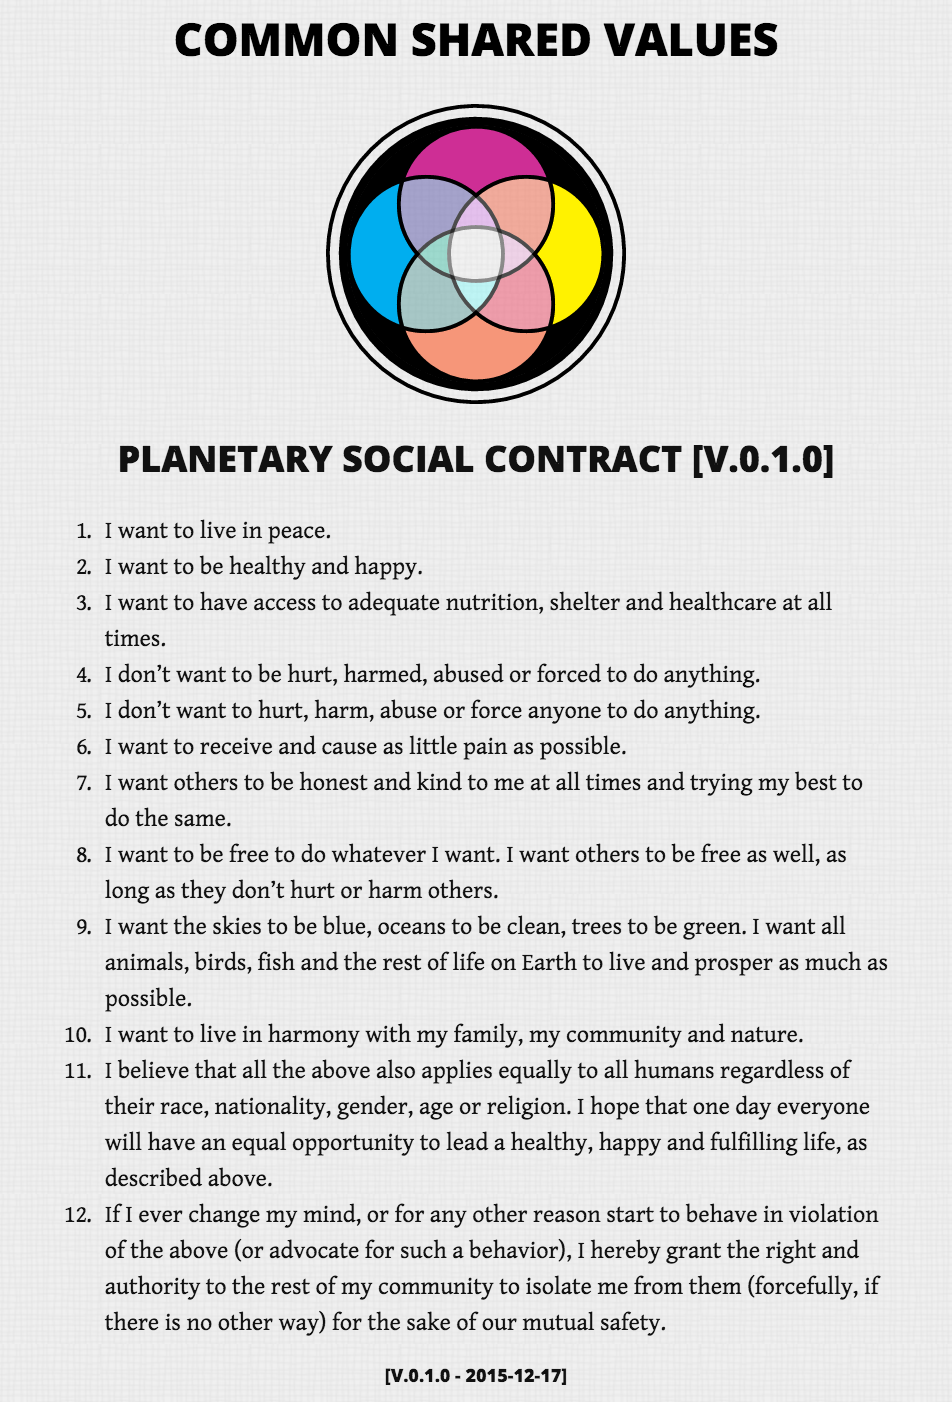
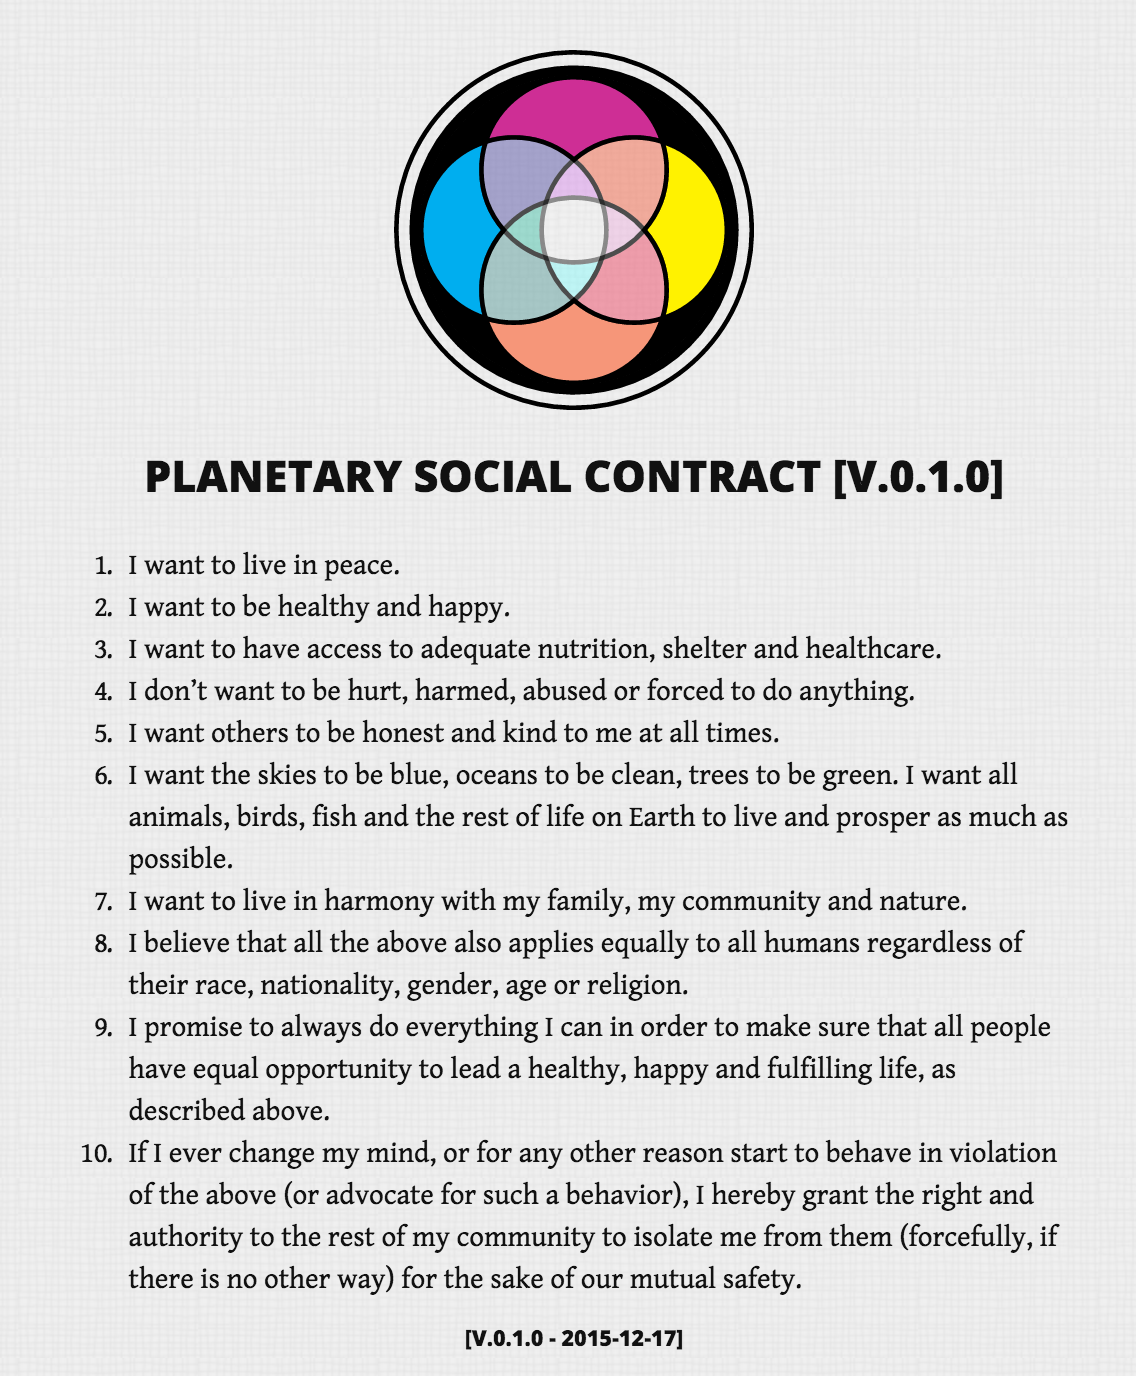
initial comments implemented

Changed region(s): [[0.0609, 0.0, 0.9443, 1.0]]

diff --git a/_site/index.html b/_site/index.html
@@ -13,7 +13,9 @@
   <meta property="og:url"           content="http://commonsharedvalues.org" />
   <meta property="og:type"          content="website" />
   <meta property="og:title"         content="Common Shared Values" />
-  <meta property="og:description"   content="Planetary Social Contract" />
+  <meta property="og:description"   content="Planetary Social Contract. I want to live in peace. I want to be healthy and happy. I want to have access to adequate nutrition, shelter and healthcare. I don’t want to be hurt, harmed, abused or forced to do anything. I want others to be honest and kind to me at all times. I want the skies to be blue, oceans to be clean, trees to be green. I want all animals, birds, fish and the rest of life on Earth to live and prosper as much as possible. I
+  want to live in harmony with my family, my community and nature. I believe that all the above also applies equally to all humans regardless of their race, nationality, gender, age or religion. I promise to always do everything I can in order to make sure that all people have equal opportunity to lead a healthy, happy and fulfilling life, as described above. If I ever change my mind, or for any other reason start to behave in violation of the above (or advocate for such a
+  behavior), I hereby grant the right and authority to the rest of my community to isolate me from them (forcefully, if there is no other way) for the sake of our mutual safety." />
   <meta property="og:image"         content="http://commonsharedvalues.org/assets/commonsharedvalues.png" />
 
   <!-- Bootstrap -->
@@ -62,15 +64,13 @@
   <ol>
   <li>I want to live in peace.</li>
   <li>I want to be healthy and happy.</li>
-  <li>I want to have access to adequate nutrition, shelter and healthcare at all times.</li>
+  <li>I want to have access to adequate nutrition, shelter and healthcare.</li>
   <li>I don’t want to be hurt, harmed, abused or forced to do anything.</li>
-  <li>I don’t want to hurt, harm, abuse or force anyone to do anything.</li>
-  <li>I want to receive and cause as little pain as possible.</li>
-  <li>I want others to be honest and kind to me at all times and trying my best to do the same.</li>
-  <li>I want to be free to do whatever I want. I want others to be free as well, as long as they don’t hurt or harm others.</li>
+  <li>I want others to be honest and kind to me at all times.</li>
   <li>I want the skies to be blue, oceans to be clean, trees to be green. I want all animals, birds, fish and the rest of life on Earth to live and prosper as much as possible.</li>
   <li>I want to live in harmony with my family, my community and nature.</li>
-  <li>I believe that all the above also applies equally to all humans regardless of their race, nationality, gender, age or religion. I hope that one day everyone will have an equal opportunity to lead a healthy, happy and fulfilling life, as described above.</li>
+  <li>I believe that all the above also applies equally to all humans regardless of their race, nationality, gender, age or religion.</li>
+  <li>I promise to always do everything I can in order to make sure that all people have equal opportunity to lead a healthy, happy and fulfilling life, as described above.</li>
   <li>If I ever change my mind, or for any other reason start to behave in violation of the above (or advocate for such a behavior), I hereby grant the right and authority to the rest of my community to isolate me from them (forcefully, if there is no other way) for the sake of our mutual safety.</li>
 </ol>
 

diff --git a/_site/thank-you/index.html b/_site/thank-you/index.html
@@ -13,7 +13,9 @@
   <meta property="og:url"           content="http://commonsharedvalues.org" />
   <meta property="og:type"          content="website" />
   <meta property="og:title"         content="Common Shared Values" />
-  <meta property="og:description"   content="Planetary Social Contract" />
+  <meta property="og:description"   content="Planetary Social Contract. I want to live in peace. I want to be healthy and happy. I want to have access to adequate nutrition, shelter and healthcare. I don’t want to be hurt, harmed, abused or forced to do anything. I want others to be honest and kind to me at all times. I want the skies to be blue, oceans to be clean, trees to be green. I want all animals, birds, fish and the rest of life on Earth to live and prosper as much as possible. I
+  want to live in harmony with my family, my community and nature. I believe that all the above also applies equally to all humans regardless of their race, nationality, gender, age or religion. I promise to always do everything I can in order to make sure that all people have equal opportunity to lead a healthy, happy and fulfilling life, as described above. If I ever change my mind, or for any other reason start to behave in violation of the above (or advocate for such a
+  behavior), I hereby grant the right and authority to the rest of my community to isolate me from them (forcefully, if there is no other way) for the sake of our mutual safety." />
   <meta property="og:image"         content="http://commonsharedvalues.org/assets/commonsharedvalues.png" />
 
   <!-- Bootstrap -->
@@ -57,14 +59,24 @@
 
 <hr />
 
-<p>The world has just gotten a little better.
-If you want more of us to be on the bright side, please consider telling your friends about the project - offline, or online, using the links below.</p>
+<p>The world has just gotten a little better!</p>
+
+<p>Now the key is obsiously in keeping true to these values at all times. Individually, we humans are weak and forgetful. So one of the best ways of doing it - is getting a few friends to watch over you. As the saying goes, “Together we stand, divided we fall”.</p>
+
+<p>Please consider using the buttons below to publicly nominate a couple of your friends, whose judgment you trus, to always make sure that you are on the bright side and remind you, should you ever go astray.</p>
 
 <hr />
+
 <div style="text-align: center;">
 	<!-- Go to www.addthis.com/dashboard to customize your tools -->
 	<div class="addthis_sharing_toolbox" data-url="http://commonsharedvalues.org" data-title="Common Shared Values"></div>
 </div>
+
+<hr />
+
+<p><br /></p>
+
+<h3 id="thank-you">Thank you!</h3>
 
   </div>
 

diff --git a/_includes/head.html b/_includes/head.html
@@ -10,7 +10,9 @@
   <meta property="og:url"           content="http://commonsharedvalues.org" />
   <meta property="og:type"          content="website" />
   <meta property="og:title"         content="Common Shared Values" />
-  <meta property="og:description"   content="Planetary Social Contract" />
+  <meta property="og:description"   content="Planetary Social Contract. I want to live in peace. I want to be healthy and happy. I want to have access to adequate nutrition, shelter and healthcare. I don’t want to be hurt, harmed, abused or forced to do anything. I want others to be honest and kind to me at all times. I want the skies to be blue, oceans to be clean, trees to be green. I want all animals, birds, fish and the rest of life on Earth to live and prosper as much as possible. I
+  want to live in harmony with my family, my community and nature. I believe that all the above also applies equally to all humans regardless of their race, nationality, gender, age or religion. I promise to always do everything I can in order to make sure that all people have equal opportunity to lead a healthy, happy and fulfilling life, as described above. If I ever change my mind, or for any other reason start to behave in violation of the above (or advocate for such a
+  behavior), I hereby grant the right and authority to the rest of my community to isolate me from them (forcefully, if there is no other way) for the sake of our mutual safety." />
   <meta property="og:image"         content="http://commonsharedvalues.org/assets/commonsharedvalues.png" />
 
   <!-- Bootstrap -->

diff --git a/_site/about/index.html b/_site/about/index.html
@@ -13,7 +13,9 @@
   <meta property="og:url"           content="http://commonsharedvalues.org" />
   <meta property="og:type"          content="website" />
   <meta property="og:title"         content="Common Shared Values" />
-  <meta property="og:description"   content="Planetary Social Contract" />
+  <meta property="og:description"   content="Planetary Social Contract. I want to live in peace. I want to be healthy and happy. I want to have access to adequate nutrition, shelter and healthcare. I don’t want to be hurt, harmed, abused or forced to do anything. I want others to be honest and kind to me at all times. I want the skies to be blue, oceans to be clean, trees to be green. I want all animals, birds, fish and the rest of life on Earth to live and prosper as much as possible. I
+  want to live in harmony with my family, my community and nature. I believe that all the above also applies equally to all humans regardless of their race, nationality, gender, age or religion. I promise to always do everything I can in order to make sure that all people have equal opportunity to lead a healthy, happy and fulfilling life, as described above. If I ever change my mind, or for any other reason start to behave in violation of the above (or advocate for such a
+  behavior), I hereby grant the right and authority to the rest of my community to isolate me from them (forcefully, if there is no other way) for the sake of our mutual safety." />
   <meta property="og:image"         content="http://commonsharedvalues.org/assets/commonsharedvalues.png" />
 
   <!-- Bootstrap -->

diff --git a/_site/subscribe/index.html b/_site/subscribe/index.html
@@ -13,7 +13,9 @@
   <meta property="og:url"           content="http://commonsharedvalues.org" />
   <meta property="og:type"          content="website" />
   <meta property="og:title"         content="Common Shared Values" />
-  <meta property="og:description"   content="Planetary Social Contract" />
+  <meta property="og:description"   content="Planetary Social Contract. I want to live in peace. I want to be healthy and happy. I want to have access to adequate nutrition, shelter and healthcare. I don’t want to be hurt, harmed, abused or forced to do anything. I want others to be honest and kind to me at all times. I want the skies to be blue, oceans to be clean, trees to be green. I want all animals, birds, fish and the rest of life on Earth to live and prosper as much as possible. I
+  want to live in harmony with my family, my community and nature. I believe that all the above also applies equally to all humans regardless of their race, nationality, gender, age or religion. I promise to always do everything I can in order to make sure that all people have equal opportunity to lead a healthy, happy and fulfilling life, as described above. If I ever change my mind, or for any other reason start to behave in violation of the above (or advocate for such a
+  behavior), I hereby grant the right and authority to the rest of my community to isolate me from them (forcefully, if there is no other way) for the sake of our mutual safety." />
   <meta property="og:image"         content="http://commonsharedvalues.org/assets/commonsharedvalues.png" />
 
   <!-- Bootstrap -->

diff --git a/_site/suggest-edit/index.html b/_site/suggest-edit/index.html
@@ -13,7 +13,9 @@
   <meta property="og:url"           content="http://commonsharedvalues.org" />
   <meta property="og:type"          content="website" />
   <meta property="og:title"         content="Common Shared Values" />
-  <meta property="og:description"   content="Planetary Social Contract" />
+  <meta property="og:description"   content="Planetary Social Contract. I want to live in peace. I want to be healthy and happy. I want to have access to adequate nutrition, shelter and healthcare. I don’t want to be hurt, harmed, abused or forced to do anything. I want others to be honest and kind to me at all times. I want the skies to be blue, oceans to be clean, trees to be green. I want all animals, birds, fish and the rest of life on Earth to live and prosper as much as possible. I
+  want to live in harmony with my family, my community and nature. I believe that all the above also applies equally to all humans regardless of their race, nationality, gender, age or religion. I promise to always do everything I can in order to make sure that all people have equal opportunity to lead a healthy, happy and fulfilling life, as described above. If I ever change my mind, or for any other reason start to behave in violation of the above (or advocate for such a
+  behavior), I hereby grant the right and authority to the rest of my community to isolate me from them (forcefully, if there is no other way) for the sake of our mutual safety." />
   <meta property="og:image"         content="http://commonsharedvalues.org/assets/commonsharedvalues.png" />
 
   <!-- Bootstrap -->

diff --git a/_includes/csv/v0.1.0/en.md b/_includes/csv/v0.1.0/en.md
@@ -1,14 +1,12 @@
 1. I want to live in peace.
 2. I want to be healthy and happy.
-3. I want to have access to adequate nutrition, shelter and healthcare at all times.
+3. I want to have access to adequate nutrition, shelter and healthcare.
 4. I don't want to be hurt, harmed, abused or forced to do anything.
-5. I don't want to hurt, harm, abuse or force anyone to do anything.
-6. I want to receive and cause as little pain as possible.
-7. I want others to be honest and kind to me at all times and trying my best to do the same.
-8. I want to be free to do whatever I want. I want others to be free as well, as long as they don't hurt or harm others.
-9. I want the skies to be blue, oceans to be clean, trees to be green. I want all animals, birds, fish and the rest of life on Earth to live and prosper as much as possible.
-10. I want to live in harmony with my family, my community and nature.
-11. I believe that all the above also applies equally to all humans regardless of their race, nationality, gender, age or religion. I hope that one day everyone will have an equal opportunity to lead a healthy, happy and fulfilling life, as described above.
-12. If I ever change my mind, or for any other reason start to behave in violation of the above (or advocate for such a behavior), I hereby grant the right and authority to the rest of my community to isolate me from them (forcefully, if there is no other way) for the sake of our mutual safety.
+5. I want others to be honest and kind to me at all times.
+6. I want the skies to be blue, oceans to be clean, trees to be green. I want all animals, birds, fish and the rest of life on Earth to live and prosper as much as possible.
+7. I want to live in harmony with my family, my community and nature.
+8. I believe that all the above also applies equally to all humans regardless of their race, nationality, gender, age or religion.
+9. I promise to always do everything I can in order to make sure that all people have equal opportunity to lead a healthy, happy and fulfilling life, as described above.
+10. If I ever change my mind, or for any other reason start to behave in violation of the above (or advocate for such a behavior), I hereby grant the right and authority to the rest of my community to isolate me from them (forcefully, if there is no other way) for the sake of our mutual safety.
 
 ###### [v.0.1.0 - 2015-12-17]

diff --git a/thankyou.md b/thankyou.md
@@ -8,11 +8,21 @@ permalink: /thank-you/
 
 -------
 
-The world has just gotten a little better.
-If you want more of us to be on the bright side, please consider telling your friends about the project - offline, or online, using the links below.
+The world has just gotten a little better!
+
+Now the key is obsiously in keeping true to these values at all times. Individually, we humans are weak and forgetful. So one of the best ways of doing it - is getting a few friends to watch over you. As the saying goes, "Together we stand, divided we fall".
+
+Please consider using the buttons below to publicly nominate a couple of your friends, whose judgment you trus, to always make sure that you are on the bright side and remind you, should you ever go astray.
 
 -------
+
 <div style="text-align: center;">
 	<!-- Go to www.addthis.com/dashboard to customize your tools -->
 	<div class="addthis_sharing_toolbox" data-url="http://commonsharedvalues.org" data-title="Common Shared Values"></div>
 </div>
+
+------
+
+<br>
+
+### Thank you!
